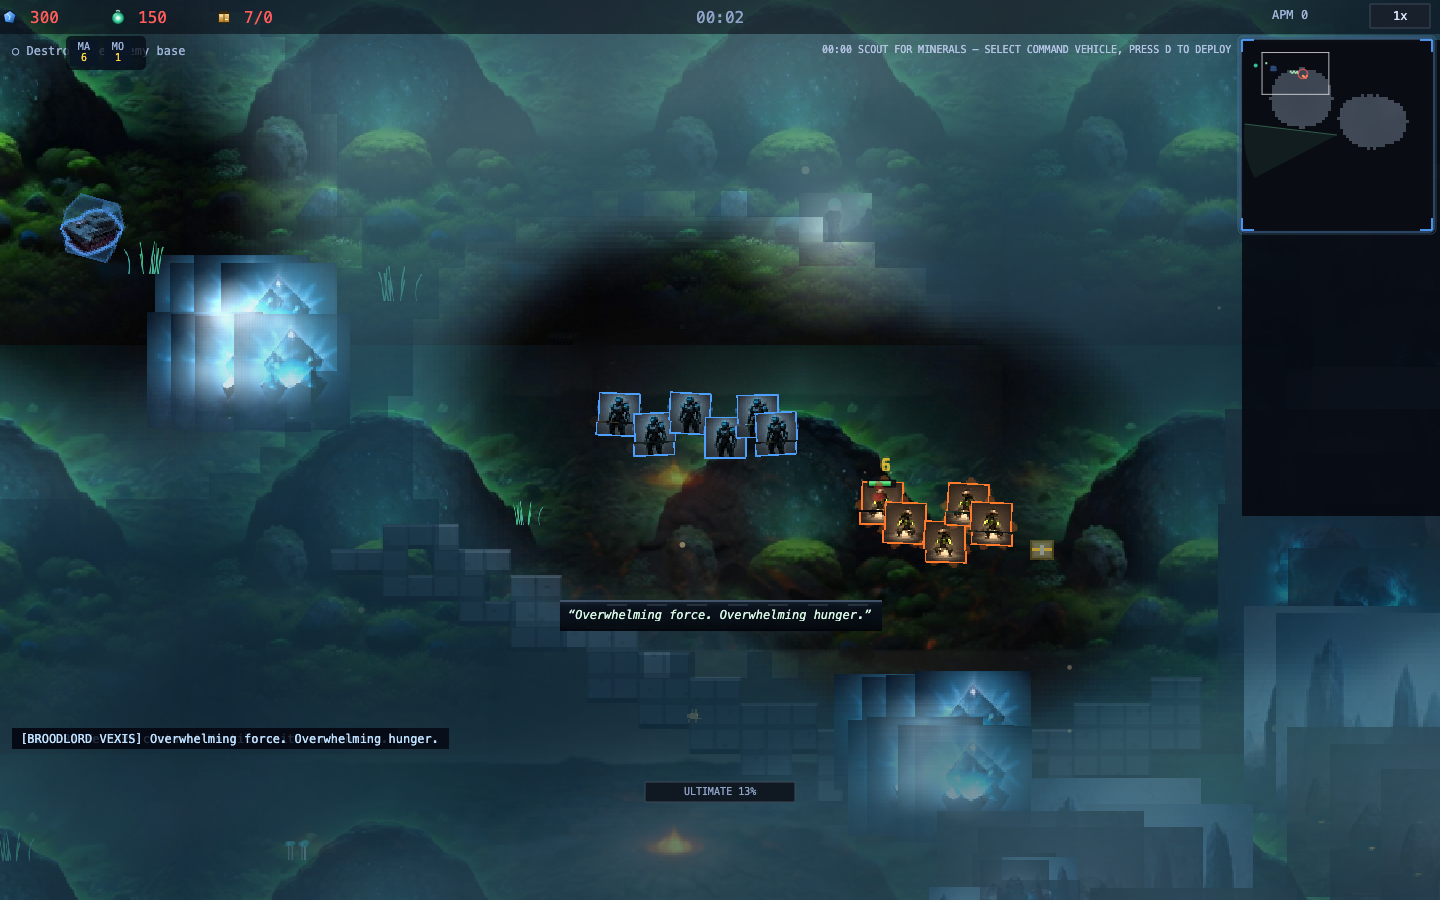
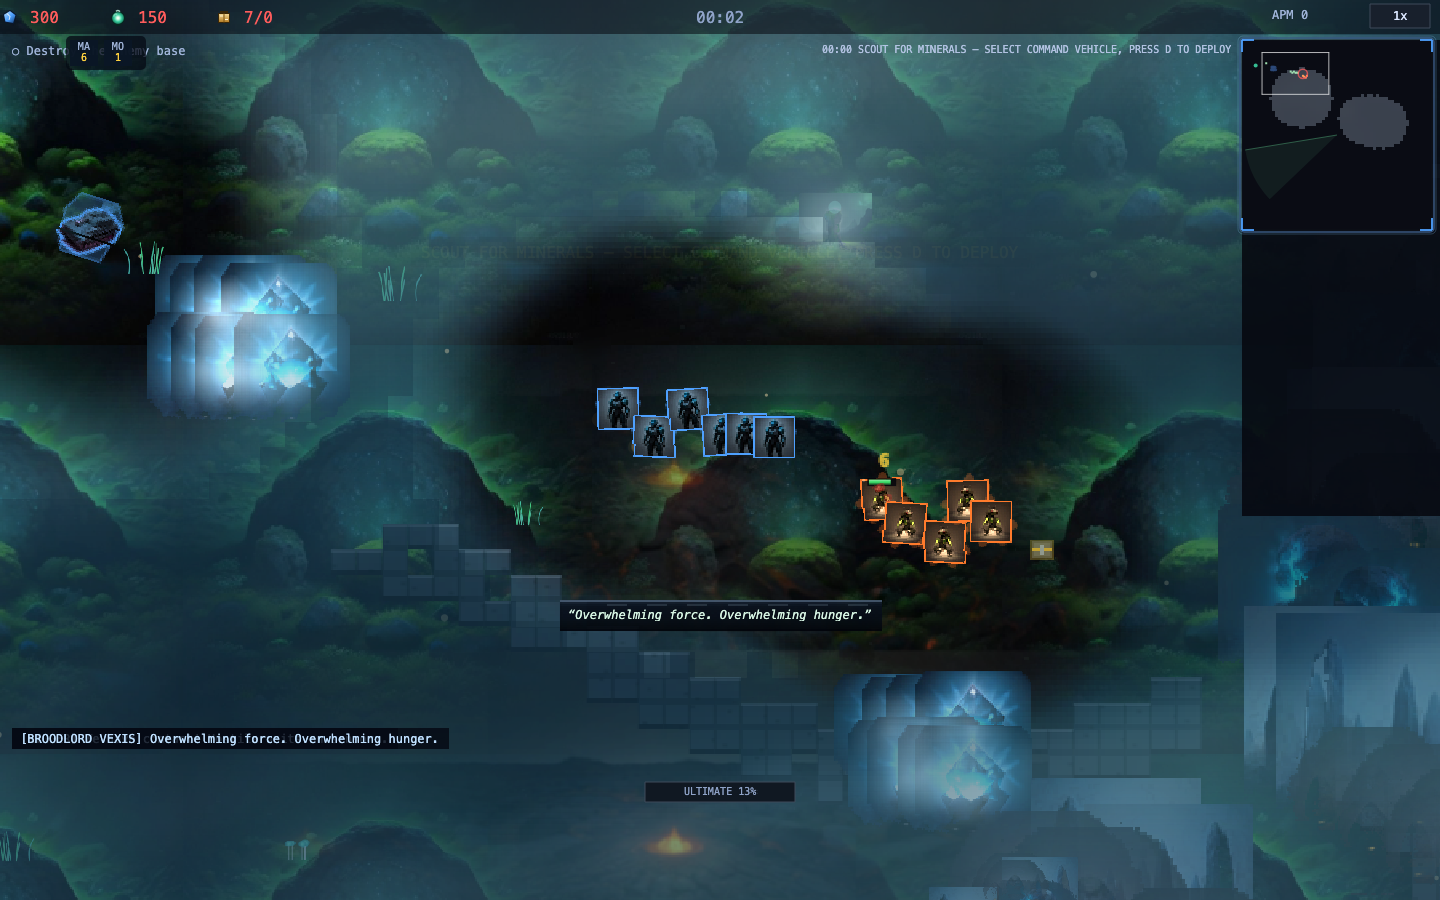
v2.61.0 minimap elev paint + title sky tint + 2x battle dust: ELEV_PAINT fog-gated plateau shading (lifted face 0xb9cbe6 + lit scarp top + dark base) and rock ridge blocks (0x232b38 + lit north edge) on mmG - fog-gated via b.seen since mmG composites above shroud (headless-proven); SKYTINT title fal

diff --git a/src2/scenes/HudScene.js b/src2/scenes/HudScene.js
@@ -1149,6 +1149,31 @@ export class HudScene extends Phaser.Scene {
       g.fillStyle(t === 0 ? 0x24406e : 0x5a2340, 0.85);
       for (let i = 0; i < cells.length; i++) if (cells[i]) { g.fillRect(this.mmX + ((i % MAP_W) * TILE) * s, this.mmY + (((i / MAP_W) | 0) * TILE) * s, 2, 2); }
     }
+    // v2.61 ELEV_PAINT: plateaus read as shaded highland on the minimap — scarp
+    // ring darker, plateau face lifted light; rock tiles painted dark with a lit
+    // north edge so mountain ridges are legible at 1px/tile. Fog-gated: mmG sits
+    // above the shroud image, so only paint tiles the player has actually seen.
+    if (b.elev) {
+      for (let ty = 0; ty < MAP_H; ty++) for (let tx = 0; tx < MAP_W; tx++) {
+        const i = ty * MAP_W + tx;
+        if (!b.seen[i]) continue;
+        if (!b.elev[i]) continue;
+        const ex = this.mmX + tx * s, ey = this.mmY + ty * s;
+        const nb = (dx2, dy2) => { const nx = tx + dx2, ny = ty + dy2; return nx >= 0 && ny >= 0 && nx < MAP_W && ny < MAP_H && b.elev[ny * MAP_W + nx]; };
+        g.fillStyle(0xb9cbe6, 0.16);
+        g.fillRect(ex, ey, Math.ceil(s), Math.ceil(s));
+        if (!nb(0, -1)) { g.fillStyle(0xe8f1ff, 0.30); g.fillRect(ex, ey, Math.ceil(s), 1); }
+        if (!nb(0, 1)) { g.fillStyle(0x0a0f1c, 0.35); g.fillRect(ex, ey + Math.max(1, Math.ceil(s) - 1), Math.ceil(s), 1); }
+      }
+    }
+    for (const r of (b.rockTiles || [])) {
+      if (!b.seen[b.nav.idx(r.tx, r.ty)]) continue;
+      const ex = this.mmX + r.tx * s, ey = this.mmY + r.ty * s;
+      g.fillStyle(0x232b38, 0.9);
+      g.fillRect(ex, ey, Math.ceil(s), Math.ceil(s));
+      g.fillStyle(0x5b6b80, 0.5);
+      g.fillRect(ex, ey, Math.ceil(s), 1);
+    }
     // v2.45: resources only appear once scouted (no always-known economy leak)
     g.fillStyle(0x2c4a7a, 0.9);
     for (const m of b.minerals) {

diff --git a/src2/engine/polish.js b/src2/engine/polish.js
@@ -548,7 +548,7 @@ export class PolishFX {
     const race = (s.players && s.players[0] && s.players[0].race) || 'terran';
     this._wxT = (this._wxT || 0) - dt;
     if (this._wxT > 0) return;
-    this._wxT = 0.12 + Math.random() * 0.15;
+    this._wxT = 0.05 + Math.random() * 0.07; // v2.61: ~2x mote density for battle ambience
     if (!this._cheap(s)) return;
     const W = s.scale.width, H = s.scale.height;
     if (race === 'skarn') {
@@ -567,6 +567,12 @@ export class PolishFX {
       const x = dir > 0 ? -4 : W + 4, y = Math.random() * H;
       const p = s.add.circle(x, y, 0.8 + Math.random(), 0xc8b890, 0.28).setScrollFactor(0).setDepth(9000);
       s.tweens.add({ targets: p, x: x + dir * (70 + Math.random() * 90), y: y + (Math.random() * 24 - 12), alpha: 0, duration: 2000 + Math.random() * 1200, ease: 'Sine.easeOut', onComplete: () => p.destroy() });
+      // v2.61: occasional secondary ember trailing the gust for density
+      if (Math.random() < 0.45) {
+        const y2 = Math.random() * H;
+        const q = s.add.circle(dir > 0 ? -4 : W + 4, y2, 0.6 + Math.random() * 0.7, 0xd8c9a0, 0.22).setScrollFactor(0).setDepth(9000);
+        s.tweens.add({ targets: q, x: q.x + dir * (60 + Math.random() * 80), y: y2 + (Math.random() * 30 - 15), alpha: 0, duration: 2400 + Math.random() * 1200, ease: 'Sine.easeOut', onComplete: () => q.destroy() });
+      }
     }
   }
 

diff --git a/src2/scenes/TitleScene.js b/src2/scenes/TitleScene.js
@@ -41,8 +41,12 @@ export class TitleScene extends Phaser.Scene {
 
     // ---- painted backdrop (real key art) over graded wash fallback ----
     const bgG = this.add.graphics().setDepth(0);
-    bgG.fillGradientStyle(0x14283f, 0x14283f, 0x060b16, 0x060b16, 1);
-    bgG.fillRect(0, 0, this.W, this.H);
+    // v2.61 SKYTINT: 4-stop atmospheric gradient (near-black zenith -> steel
+    // midband -> horizon glow) so the fallback wash reads as sky, not a flat block.
+    bgG.fillGradientStyle(0x050a14, 0x050a14, 0x2d5178, 0x2d5178, 1);
+    bgG.fillRect(0, 0, this.W, this.H * 0.74);
+    bgG.fillGradientStyle(0x2d5178, 0x2d5178, 0x04070f, 0x04070f, 1);
+    bgG.fillRect(0, this.H * 0.74, this.W, this.H * 0.26);
     if (this.textures.exists('cin_titlebg')) {
       const tex = this.textures.get('cin_titlebg').getSourceImage();
       const sc = Math.max(this.W / tex.width, this.H / tex.height) * 1.06;
